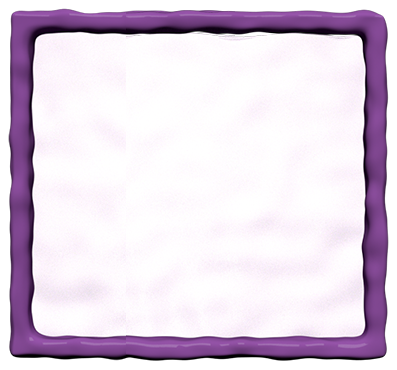
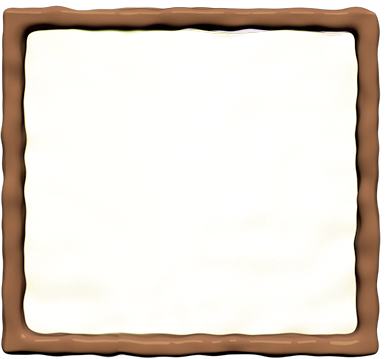
0725 info 수정(텍스트->이미지), 게임오버 위치 및 크기 변경

Changed region(s): [[0.0, 0.0, 0.9974, 1.0]]

diff --git a/script.js b/script.js
@@ -2,9 +2,6 @@ const canvas = document.getElementById('gameCanvas');
 const ctx = canvas.getContext('2d');
 const startButton = document.getElementById('startButton');
 const stopButton = document.getElementById('stopButton');
-const infoLives = document.getElementById('infoLives');
-const infoItems = document.getElementById('infoItems');
-const infoScore = document.getElementById('infoScore');
 const leftButton = document.getElementById('leftButton');
 const rightButton = document.getElementById('rightButton');
 const stopButtonImage = document.getElementById('stopButtonImage');
@@ -388,7 +385,35 @@ objectImages.house4.src = 'img/house4.png';
 objectImages.house5.src = 'img/house5.png';
 
 const frameImg = new Image();
+const frameText = new Image();
 frameImg.src = 'img/frame.png';
+frameText.src = 'img/frameText.png';
+
+const heart = new Image();
+const emptyheart= new Image();
+const scoreBackground = new Image();
+const misfortuneBackground = new Image();
+
+heart.src = 'img/heart.png';
+emptyheart.src = 'img/heartEmpty.png';
+scoreBackground.src = 'img/scoreBackground.png';
+misfortuneBackground.src = 'img/misfortuneBackground.png';
+
+const heartwidth = 40
+
+const misfortunewidth = 77
+const misfortuneheigh = 70
+
+const scorewidth = 152
+const scoreheigh = 60
+
+const playerwidth = 130;
+const objectwidth = 70;
+
+const frameWidth = objectwidth+70
+const frameTextWidth = 200
+const frameTextHeigh = 40
+const answerWidth = objectwidth+20
 
 let obstacleSpeed = 4;
 const obstacles = [];
@@ -409,8 +434,7 @@ let tmpCount = 0;
 let answer = 0;
 let emergencyAnswerTime = false
 let playerFrame = 0
-const playerwidth = 130;
-const objectwidth = 70;
+
 const lanes = [0, 0, 0];
 const playerlanes = [0, 0, 0];
 const playerFrameTime = 2000
@@ -426,6 +450,8 @@ const obstacleSet = [
     ['item'],
     ['misfortune'] // 불행조각 잦은 빈도를 위해..
 ];
+
+
 
 const player = {
     width: playerwidth,
@@ -703,9 +729,12 @@ function drawPlayer() {
     ctx.drawImage(player.image, player.x, player.y, player.width, player.height);
 }
 
+
+
 function drawAnswer(answer) {
-    ctx.drawImage(frameImg, canvas.width / 2 - objectwidth / 2, canvas.height / 2 - objectwidth/2, objectwidth, objectwidth);
-    ctx.drawImage(objectImages[houseList[answer]], canvas.width / 2 - objectwidth / 2, canvas.height / 2 - objectwidth/2, objectwidth, objectwidth);
+    ctx.drawImage(frameText, canvas.width / 2 - frameTextWidth/2 , canvas.height / 2 -( frameWidth/2 +frameTextHeigh*1.5), frameTextWidth, frameTextHeigh);
+    ctx.drawImage(frameImg, canvas.width / 2 - frameWidth/2 , canvas.height / 2 - frameWidth/2, frameWidth, frameWidth);
+    ctx.drawImage(objectImages[houseList[answer]], canvas.width / 2 - answerWidth / 2, canvas.height / 2 - answerWidth/2, answerWidth, answerWidth);
 
 }
 
@@ -723,9 +752,31 @@ function drawObstacles() {
 
 // 아이템 메세지 그려줌
 function updateInfo() {
-    infoLives.textContent = `생명력: ${player.lives}`;
-    infoItems.textContent = `불행조각: ${player.items}`;
-    infoScore.textContent = `점수: ${player.score}`;
+    if(player.lives==0){
+        ctx.drawImage(emptyheart, canvas.width / 2 - heartwidth/2 - heartwidth , scoreheigh , heartwidth, heartwidth);
+        ctx.drawImage(emptyheart, canvas.width / 2 - heartwidth/2 , scoreheigh , heartwidth, heartwidth);
+        ctx.drawImage(emptyheart, canvas.width / 2 - heartwidth/2 + heartwidth, scoreheigh , heartwidth, heartwidth);
+    }else if(player.lives==1){
+        ctx.drawImage(heart, canvas.width / 2 - heartwidth/2 - heartwidth , scoreheigh , heartwidth, heartwidth);
+        ctx.drawImage(emptyheart, canvas.width / 2 - heartwidth/2 , scoreheigh , heartwidth, heartwidth);
+        ctx.drawImage(emptyheart, canvas.width / 2 - heartwidth/2 + heartwidth, scoreheigh , heartwidth, heartwidth);
+    }else if(player.lives==2){
+        ctx.drawImage(heart, canvas.width / 2 - heartwidth/2 - heartwidth , scoreheigh , heartwidth, heartwidth);
+        ctx.drawImage(heart, canvas.width / 2 - heartwidth/2 , scoreheigh , heartwidth, heartwidth);
+        ctx.drawImage(emptyheart, canvas.width / 2 - heartwidth/2 + heartwidth, scoreheigh , heartwidth, heartwidth);
+    }else if(player.lives==3){
+        ctx.drawImage(heart, canvas.width / 2 - heartwidth/2 - heartwidth , scoreheigh , heartwidth, heartwidth);
+        ctx.drawImage(heart, canvas.width / 2 - heartwidth/2 , scoreheigh , heartwidth, heartwidth);
+        ctx.drawImage(heart, canvas.width / 2 - heartwidth/2 + heartwidth, scoreheigh , heartwidth, heartwidth);
+    }
+
+    ctx.drawImage(scoreBackground, canvas.width / 2 - scorewidth/2, 0 , scorewidth, scoreheigh);
+    ctx.drawImage(misfortuneBackground, 10, 10 , misfortunewidth, misfortuneheigh);
+
+    ctx.font = '20px Bagel Fat One';
+    ctx.textAlign = "center"
+    ctx.fillText(`${player.items}`, 10+misfortunewidth/2, 20+misfortuneheigh/2);
+    ctx.fillText(`${player.score}`, canvas.width / 2 , 5+scoreheigh / 2);
 }
 
 //기본 실행 함수
@@ -761,9 +812,6 @@ startButton.addEventListener('click', () => {
     gameStarted = true;
     gamePaused = false;
     startButton.style.display = 'none';
-    infoLives.style.display = 'block';
-    infoItems.style.display = 'block';
-    infoScore.style.display = 'block';
     emergencyTimer.style.display = 'block';
     player.lives = 3;
     player.items = 0;

diff --git a/index.html b/index.html
@@ -5,6 +5,9 @@
     <meta name="viewport" content="width=device-width, initial-scale=1.0, maximum-scale=1.0, user-scalable=0" />
     <title>Murphy’s Delivery Service</title>
     <link rel="stylesheet" href="style.css" />
+    <link rel="preconnect" href="https://fonts.googleapis.com">
+    <link rel="preconnect" href="https://fonts.gstatic.com" crossorigin>
+    <link href="https://fonts.googleapis.com/css2?family=Bagel+Fat+One&display=swap" rel="stylesheet">
 </head>
 <body>
     <canvas id="gameCanvas"></canvas>
@@ -15,9 +18,6 @@
     <div id="emergencyTimer" class="info">돌발 상황이 일어나기까지... 30초</div>
     <img id="gameover" src="img/gameover.png">
     <img id="fever" src="img/fever.png">
-    <div id="infoLives" class="info">생명력: 3</div>
-    <div id="infoItems" class="info">불행조각: 0</div>
-    <div id="infoScore" class="info">점수: 0</div>
     <script src="script.js"></script>
 </body>
 </html>

diff --git a/style.css b/style.css
@@ -16,7 +16,10 @@ canvas {
     height: 600px;
     display: block;
     border: 1px solid black;
+    font-family: "Bagel Fat One", system-ui;
 }
+
+  
 #startButton {
     position: absolute;
     top: 50%; /* 가장 위에 위치하도록 수정 */
@@ -34,10 +37,10 @@ canvas {
 #gameover {
     display: none;
     position: absolute;
-    width: 300px;
-    height: 300px;
+    width: 400px;
+    height: 400px;
     flex-direction: column;
-    top: 10px;
+    top: 50px;
     z-index: 2; /* 가장 위에 표시될 수 있도록 설정 */
 }
 
@@ -59,18 +62,6 @@ canvas {
     font-size: 20px;
     color: black;
     display: none;
-}
-#infoLives {
-    top: 10px;
-    left: 10px;
-}
-#infoItems {
-    top: 40px;
-    left: 10px;
-}
-#infoScore {
-    top: 70px;
-    left: 10px;
 }
 #emergencyTimer{
     top: 100px;
